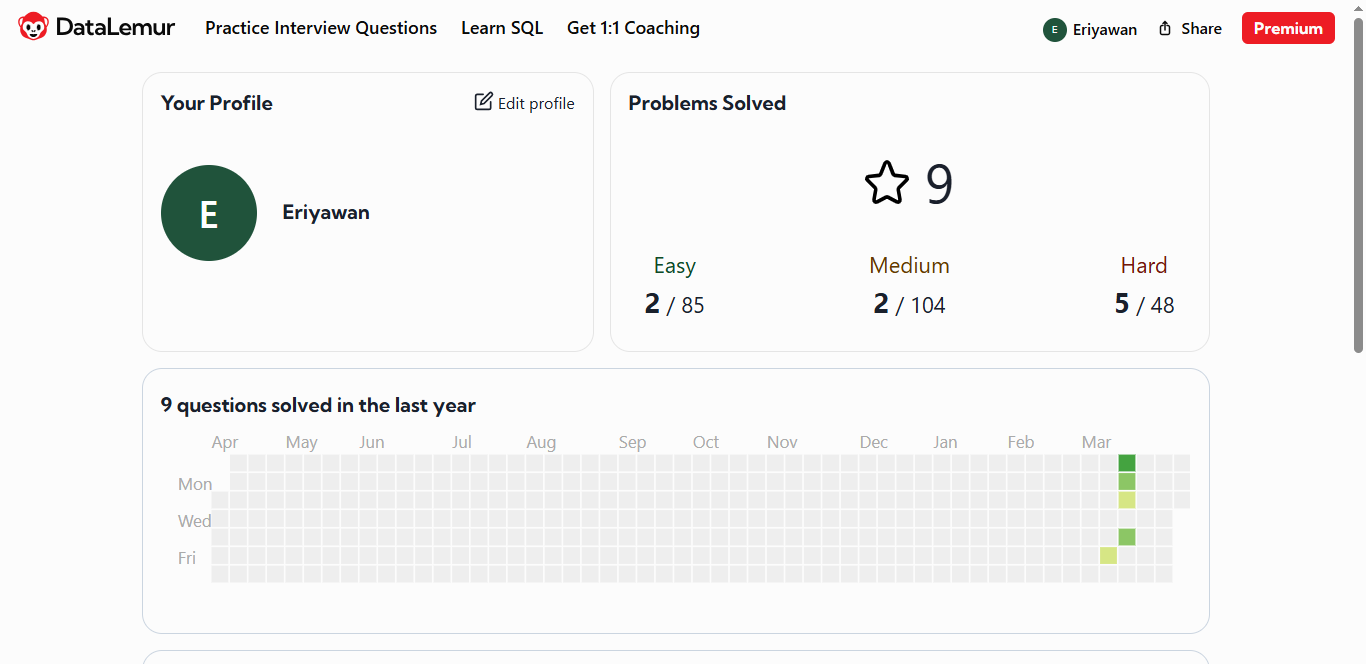
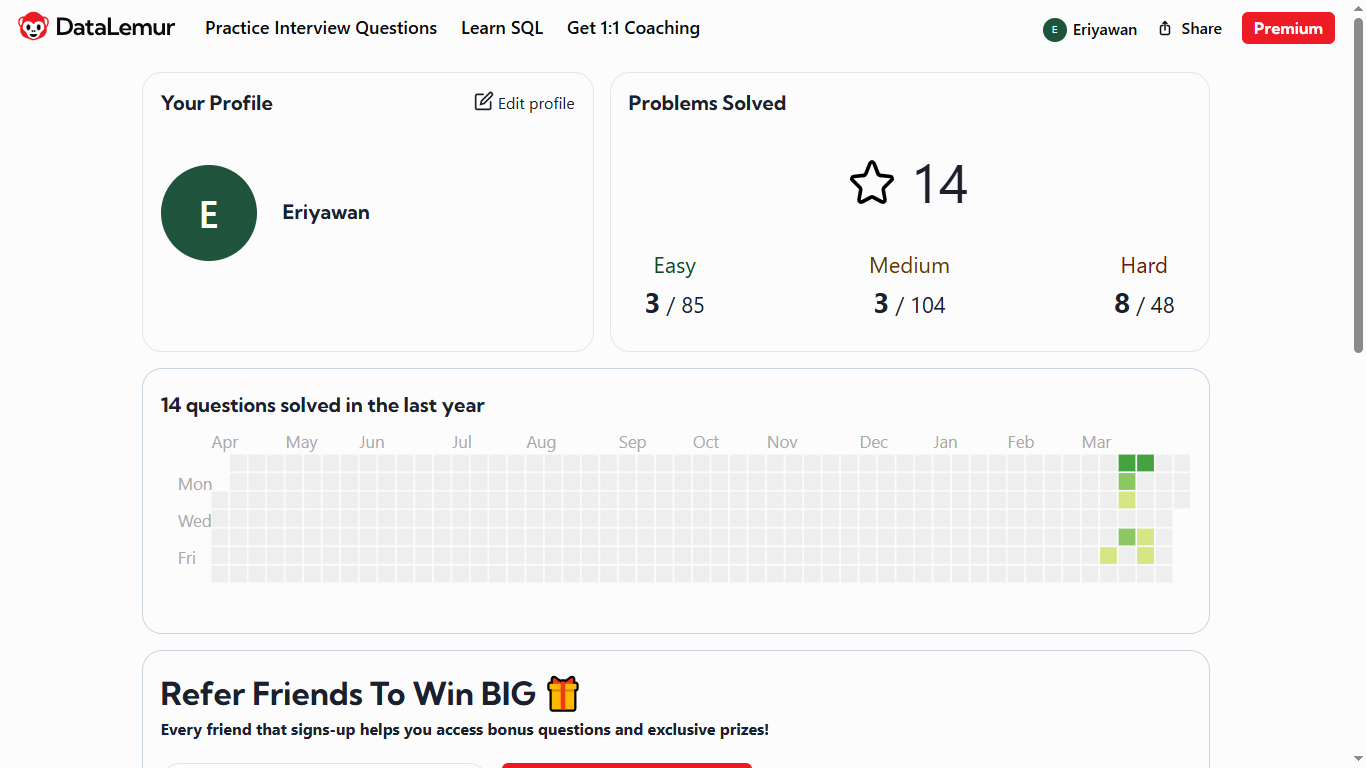
14 solved

diff --git a/README.md b/README.md
@@ -12,66 +12,84 @@ My profile link: [LinkedIn](https://id.linkedin.com/in/eriyawan) | [HackerRank](
 ## 🔴 Hard Challenges
 
 ### 1. Consecutive Filing Years
-* **Topic:** Gaps and Islands, Data Analytics
 * **Description:** Identify users who have completed document submissions for 3 consecutive years.
 * **Approach:** CTE, LEAD(), LAG(), atau ROW_NUMBER(), date subtraction.
 * **Links:** [Solustion Link](hard/consecutive-filing-years.md) | [Problem Link](https://datalemur.com/questions/consecutive-filing-years)
 
 ### 2. Repeated Payments
-* **Topic:** Self-Join, Time-Series Analysis
 * **Description:** Detects repeat transactions (same amount & merchant) within a time span of < 10 minutes.
 * **Approach:** CTE, EXTRACT(EPOCH FROM ...) filtering.
 * **Links:** [Solustion Link](hard/repeated-payments.md) | [Problem Link](https://datalemur.com/questions/repeated-payments)
 
 ### 3. Reactivated Users
-* **Topic:** User Retention, Month-over-Month Analysis
 * **Description:** Counts the number of users who returned to activity after a period of inactivity.
 * **Approach:** CTE, LAG(), mapping.
 * **Links:** [Solustion Link](hard/reactivated-users.md) | [Problem Link](https://datalemur.com/questions/reactivated-users)
 
 ### 4. Median Google Search Frequency
-* **Topic:** Frequency, Statistic
 * **Description:** Find median from a search frequency table.
 * **Approach:** CTE, WINDOW.
 * **Links:** [Solustion Link](hard/median-search-freq.md) | [Problem Link](https://datalemur.com/questions/median-search-freq)
 
 ### 5. Server Utilization Time
-* **Topic:** Frequency, Statistic
 * **Description:** Find server utilization from a status session table.
 * **Approach:** CTE, WINDOW. EXTRACT(DAY, HOUR)
 * **Links:** [Solustion Link](hard/total-utilization-time.md) | [Problem Link](https://datalemur.com/questions/total-utilization-time)
+
+### 6. Marketing Touch Streak
+* **Description:** Generate a list of contact that satisfied three or more consecutive weeks and had at least one certain marketing touch.
+* **Approach:** CTE, EXTRACT(week), WINDOW.
+* **Links:** [Solustion Link](hard/marketing-touch-streak.md) | [Problem Link](https://datalemur.com/questions/marketing-touch-streak)
+
+### 7. Three Toping Pizzas
+* **Description:** Generate a list of cost of 3 topping pizza combinations.
+* **Approach:** CTE, WINDOW.
+* **Links:** [Solustion Link](hard/pizzas-topping-cost.md) | [Problem Link](https://datalemur.com/questions/pizzas-topping-cost)
+
+### 8. Y-on-Y Growth Rate
+* **Description:** Calculate the year-on-year growth rate for the total spend of each product, grouping the results by product.
+* **Approach:** CTE, WINDOW.
+* **Links:** [Solustion Link](hard/yoy-growth-rate.md) | [Problem Link](https://datalemur.com/questions/yoy-growth-rate)
+
 
 ---
 
 ## 🟡 Medium Challenges
 
 ### 1. Highest Grossing Items
-* **Topic:** Ranking, Aggregations
 * **Description:** Find the 2 highest-grossing products per category in a given year..
-* **Approach:** `RANK()` atau `DENSE_RANK()` di dalam CTE.
+* **Approach:** `Row_number()` di dalam CTE.
 * **Links:** [Solustion Link](medium/sql-highest-grossing.md) | [Problem Link](https://datalemur.com/questions/sql-highest-grossing)
 
 ### 2. Top Three Salaries
-* **Topic:** Window Functions
 * **Description:** Displays the top 3 unique salaries per department.
 * **Approach:** `DENSE_RANK()` untuk menangani nilai gaji yang identik.
 * **Links:** [Solustion Link](medium/sql-top-three-salaries.md) | [Problem Link](https://datalemur.com/questions/sql-top-three-salaries)
+
+### 3. Second Highest Salary
+* **Description:** Determine the second highest salary among all employees.
+* **Approach:** `Row_number()` untuk menangani nilai gaji yang identik.
+* **Links:** [Solustion Link](medium/sql-second-highest-salary.md) | [Problem Link](https://datalemur.com/questions/sql-second-highest-salary)
+
 
 ---
 
 ## 🟢 Easy Challenges
 
 ### 1. Histogram of Tweets
-* **Topic:** Basic Aggregation
 * **Description:** Create a distribution of the number of tweets sent by users in 2022.
 * **Approach:** Double `GROUP BY` (Nested Aggregation).
-* **Links:** [Solustion Link](easy/sql-histogram-tweets) | [Problem Link](https://datalemur.com/questions/sql-histogram-tweets)
+* **Links:** [Solustion Link](easy/sql-histogram-tweets.md) | [Problem Link](https://datalemur.com/questions/sql-histogram-tweets)
 
 ### 2. Contains Duplicates (Python)
-* **Topic:** Array & Hash Set Logic
 * **Description:** Checks whether there are duplicate values in the list.
 * **Approach:** Comparing list length and set length.
-* **Links:** [Solustion Link](easy/python-contains-duplicate) | [Problem Link](https://datalemur.com/questions/python-contains-duplicate)
+* **Links:** [Solustion Link](easy/python-contains-duplicate.md) | [Problem Link](https://datalemur.com/questions/python-contains-duplicate)
+
+### 3. Is Palindrome (Python)
+* **Description:** Checks whether a string is palindrom.
+* **Approach:** Comparing list length and set length.
+* **Links:** [Solustion Link](easy/python-palindrome.md) | [Problem Link](https://datalemur.com/questions/python-palindrome)
 
 ---
 

diff --git a/hard/marketing-touch-streak.md b/hard/marketing-touch-streak.md
@@ -1,0 +1,52 @@
+ 
+ # Marketing Touch Streak
+### DataLemur Hard Challenge
+
+Below are my completed solutions to SQL challenges on [DataLemur](https://datalemur.com/).
+
+This page serves as a portfolio of my skills in solving business problems using advanced query techniques.
+
+### Marketing Touch Streak
+* **Description:** Generate a list of contact that satisfied three or more consecutive weeks and had at least one certain marketing touch.
+* **Approach:** CTE, EXTRACT(week), WINDOW.
+* **Links:** [Problem Link](https://datalemur.com/questions/marketing-touch-streak)
+
+### SQL Query
+```
+
+WITH weekly_data as (
+SELECT contact_id, event_type, extract(week from event_date) as wk 
+FROM marketing_touches
+group by contact_id, wk, event_type
+order by contact_id, wk, event_type),
+
+rekap as (
+select contact_id,
+wk,
+lead(wk) over w as wk2, 
+lead(wk, 2) over w as wk3,
+event_type as ev1,
+lead(event_type) over w as ev2,
+lead(event_type, 2) over w as ev3
+from weekly_data
+window w as (partition by contact_id order by wk)),
+
+marketing as (
+select * from rekap
+where wk2 is not NULL and wk3 is not NULL
+and wk2 = wk +1 and wk3 = wk2 +1
+and (ev1 = 'trial_request' or ev2 = 'trial_request' or ev3 = 'trial_request'))
+
+select email
+from marketing
+join crm_contacts on marketing.contact_id = crm_contacts.contact_id
+order by email
+
+```
+
+[My LinkedIn Link](https://id.linkedin.com/in/eriyawan)
+[My Profile on HackerRank](https://www.hackerrank.com/profile/erimilis)
+[My Profile on Leetcode](https://leetcode.com/u/erimilis)
+
+
+

diff --git a/easy/python-palindrome.md b/easy/python-palindrome.md
@@ -1,0 +1,50 @@
+ 
+ # Is Palindrome (Python)
+### DataLemur Easy Challenge
+
+Below are my completed solutions to SQL challenges on [DataLemur](https://datalemur.com/).
+
+This page serves as a portfolio of my skills in solving business problems using advanced query techniques.
+
+### Is Palindrome (Python)
+* **Description:** Checks whether a string is palindrom.
+* **Approach:** Comparing list length and set length.
+* **Links:** [Problem Link](https://datalemur.com/questions/python-palindrome)
+
+
+### SQL Query
+```
+
+def isPalindrome(phrase):
+  lft = 0
+  rgt = len(phrase)-1
+  palin = True
+  while (lft <= rgt) and palin:
+      # print("lft",phrase[lft])
+      while not phrase[lft].isalnum():
+        lft += 1
+      # print("rgt",phrase[rgt])
+      while not phrase[rgt].isalnum():
+        rgt -= 1
+      # print("lft-rgt",lft,rgt, phrase[lft], phrase[rgt])
+        
+      if phrase[lft].lower() == phrase[rgt].lower():
+        lft += 1
+        rgt -= 1
+      else:
+        palin = False
+  return palin
+  
+
+```
+
+[My LinkedIn Link](https://id.linkedin.com/in/eriyawan)
+[My Profile on HackerRank](https://www.hackerrank.com/profile/erimilis)
+[My Profile on Leetcode](https://leetcode.com/u/erimilis)
+
+[My Upwork Profile](https://upwork.com/freelancers/eriyawane)
+[My Freelancer Profile](https://www.freelancer.com/u/erimilis)
+
+
+
+

diff --git a/hard/yoy-growth-rate.md b/hard/yoy-growth-rate.md
@@ -1,0 +1,44 @@
+ 
+ # Y-on-Y Growth Rate
+### DataLemur Hard Challenge
+
+Below are my completed solutions to SQL challenges on [DataLemur](https://datalemur.com/).
+
+This page serves as a portfolio of my skills in solving business problems using advanced query techniques.
+
+### 8. Y-on-Y Growth Rate
+* **Description:** Calculate the year-on-year growth rate for the total spend of each product, grouping the results by product.
+* **Approach:** CTE, WINDOW.
+* **Links:** [Problem Link](https://datalemur.com/questions/yoy-growth-rate)
+
+
+### SQL Query
+```
+
+with yearspend as (
+SELECT extract(year from TRANSACTION_date) as year, 
+product_id, sum(spend) as spend 
+FROM user_transactions
+group by year, product_id),
+
+rekap as (
+select year, product_id, spend as curr_year_spend,
+lag(year) over w as prevyear,
+lag(product_id) over w as prevproduct,
+lag(spend) over w as prev_year_spend
+from yearspend
+window w as (partition by product_id order by product_id, year)
+)
+
+select year, product_id, curr_year_spend, prev_year_spend, 
+round(((curr_year_spend-prev_year_spend)/prev_year_spend)*100,2) as yoy
+from rekap
+
+```
+
+[My LinkedIn Link](https://id.linkedin.com/in/eriyawan)
+[My Profile on HackerRank](https://www.hackerrank.com/profile/erimilis)
+[My Profile on Leetcode](https://leetcode.com/u/erimilis)
+
+
+

diff --git a/hard/pizzas-topping-cost.md b/hard/pizzas-topping-cost.md
@@ -1,0 +1,32 @@
+ 
+ # Three Toping Pizzas
+### DataLemur Hard Challenge
+
+Below are my completed solutions to SQL challenges on [DataLemur](https://datalemur.com/).
+
+This page serves as a portfolio of my skills in solving business problems using advanced query techniques.
+
+### Three Toping Pizzas
+* **Description:** Generate a list of cost of 3 topping pizza combinations.
+* **Approach:** CTE, WINDOW.
+* **Links:** [Problem Link](https://datalemur.com/questions/pizzas-topping-cost)
+
+
+### SQL Query
+```
+
+select a.topping_name ||','|| b.topping_name ||','|| c.topping_name as pizza,
+a.ingredient_cost + b.ingredient_cost + c.ingredient_cost as total_cost
+FROM pizza_toppings as a
+JOIN pizza_toppings as b on b.topping_name > a.topping_name
+JOIN pizza_toppings as c on c.topping_name > b.topping_name
+ORDER BY total_cost desc, a.topping_name, b.topping_name, c.topping_name
+
+```
+
+[My LinkedIn Link](https://id.linkedin.com/in/eriyawan)
+[My Profile on HackerRank](https://www.hackerrank.com/profile/erimilis)
+[My Profile on Leetcode](https://leetcode.com/u/erimilis)
+
+
+

diff --git a/medium/sql-second-highest-salary.md b/medium/sql-second-highest-salary.md
@@ -1,0 +1,40 @@
+ 
+ # Second Highest Salary
+### DataLemur Hard Challenge
+
+Below are my completed solutions to SQL challenges on [DataLemur](https://datalemur.com/).
+
+This page serves as a portfolio of my skills in solving business problems using advanced query techniques.
+
+### Second Highest Salary
+* **Description:** Determine the second highest salary among all employees.
+* **Approach:** `Row_number()` untuk menangani nilai gaji yang identik.
+* **Links:** [Problem Link](https://datalemur.com/questions/sql-second-highest-salary)
+
+
+
+### SQL Query
+```
+
+with xsalary as 
+(SELECT salary
+FROM employee
+group by salary),
+
+sortedsalary as (
+select salary, row_number() over (order by salary desc) as ranking
+from xsalary)
+
+select salary as second_highest_salary
+from sortedsalary
+where ranking = 2
+
+
+```
+
+[My LinkedIn Link](https://id.linkedin.com/in/eriyawan)
+[My Profile on HackerRank](https://www.hackerrank.com/profile/erimilis)
+[My Profile on Leetcode](https://leetcode.com/u/erimilis)
+
+
+
